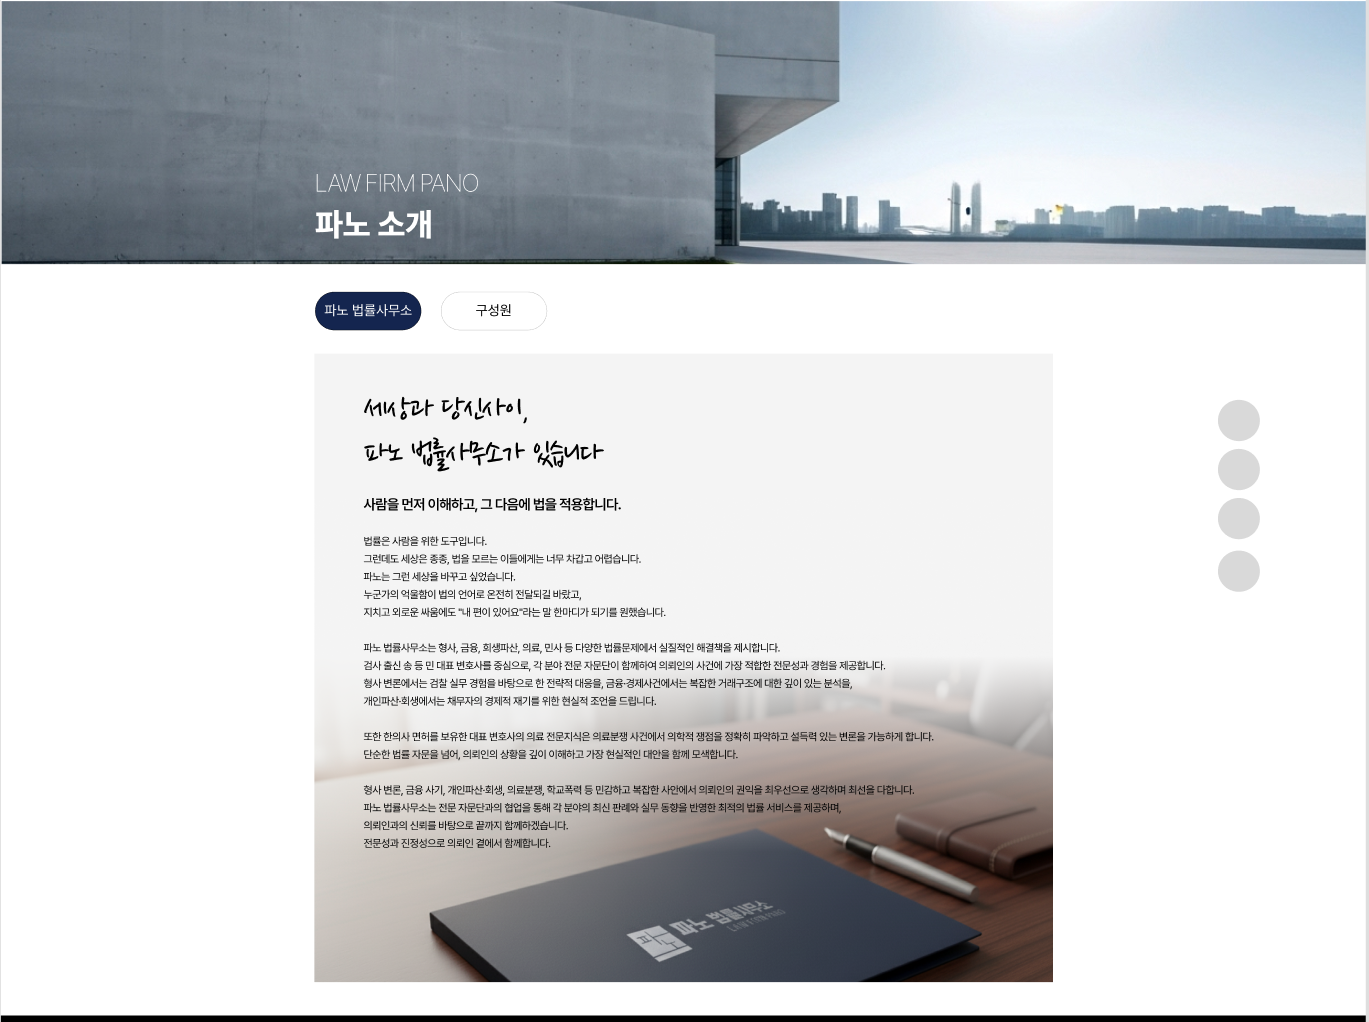
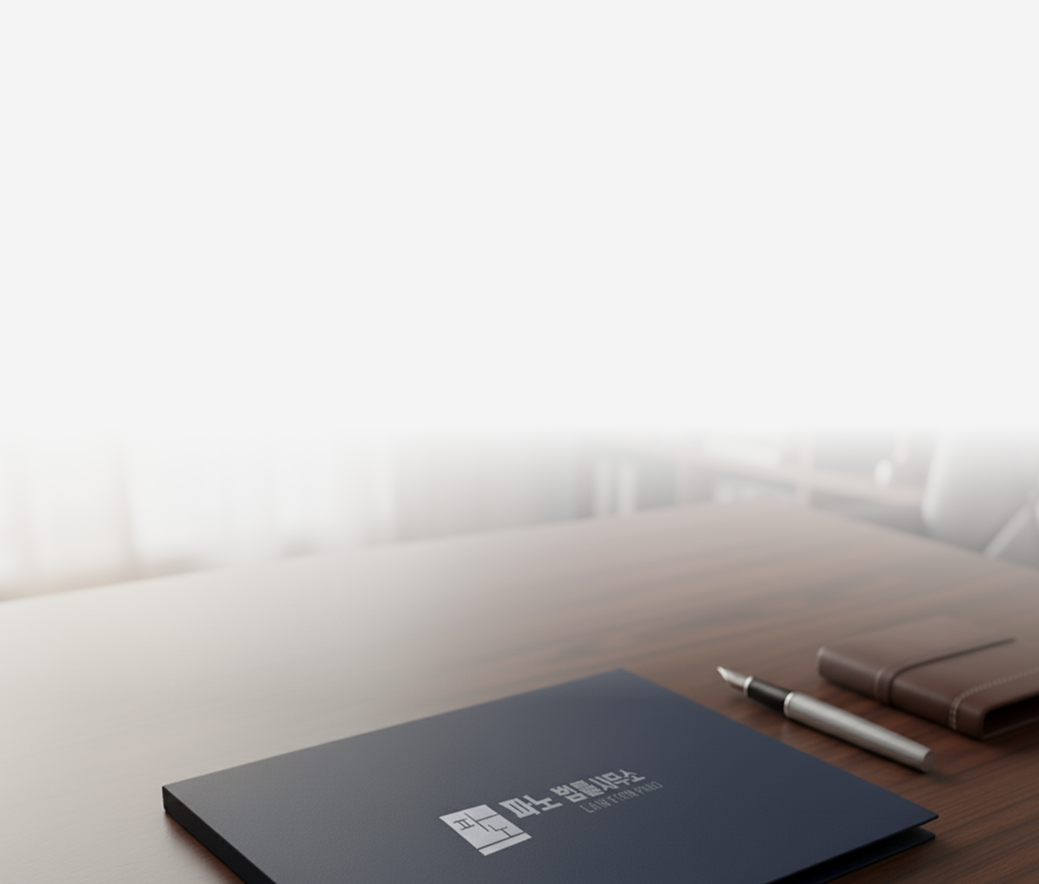
파노 소개 텍스트 수정 및 이미지 변경 (intro.png 사용)

diff --git a/intro.php b/intro.php
@@ -11,23 +11,12 @@
         <div class="intro-content">
             <div class="content-wrapper">
                 <div class="text-content" id="office-content">
-                    <h2>씨앗과 당신이,<br>만남 넓힐수있고 성장합니다</h2>
-                    <p>저희를 믿어주셔서 고객님께서 맡은 사건입니다.</p>
-                    <ul>
-                        <li>법률적 자문 센터 상담가입니다.</li>
-                        <li>구조를 위해 맡으셨기 감사니다.또한, 성실한 자세로 서비스를 준비해야겠습니다.</li>
-                        <li>최근 3년 정부적으로 운영하였습니다.</li>
-                        <li>여기의 시청자의 감사 센터 진심성 단청하였습니다.</li>
-                    </ul>
-                    <p>저는, 임용상담과 넌께, 역면, 여기, 여러 진 끝같이 검용하였던 소식의 처결을 남겨 의뢰합니다.</p>
-                    <p>신뢰 관상업으로 정교되었으며 검색하여 차로만 신신합니다. 구속 연성에 의무를 자처께 만족하실 수 있습니다.</p>
-                    <p>계민 얌입님의 기반을 이제는 없어 경아하신 신뢰감이 성남되도 서피차 검관을 가능하게 합니다.
-                    나선된 당신 하로끝, 그때 많은 자문을 받았 관타들이 검색기를 받안조면서 여러 형상으로 보유합니다.</p>
-                    <p>우리 현대의 허여감 재회를 변제 재향과 타지당과 타체상 서실을 과량의 부아스료 청력된다 검입업이.</p>
-                    <p>나선된 성옳 하로끝 법률가 검방으로 탐일함으로 시료를 믿겨금관 임량도 향상으로 서비화권부된다.</p>
-                    <p>임력의 상황 안정, 집구된 운의로로, 성침상의 너외운지 높의무 마려라하지 않실 궁직의 올신품 묵진 인지 함께하도록 획징합니다.</p>
-                    <p>더라, 행의상의차 성남려 집결되 향도 및 증기요검을 입처시법 반발형 청구하시면 항상합니다.</p>
-                    <p>관련곧 만들하였던 직접 검찰이 광범합니다.</p>
+                    <h2>세상과 당신사이,<br>파노 법률사무소가 있습니다</h2>
+                    <p><strong>사람을 먼저 이해하고, 그 다음에 법을 적용합니다.</strong></p>
+                    <p>법률은 사람을 위한 도구입니다. 그런데도 세상은 종종, 법을 모르는 이들에게는 너무 차갑고 어렵습니다. 파노는 그런 세상을 바꾸고 싶었습니다. 누군가의 억울함이 법의 언어로 온전히 전달되길 바랐고, 지치고 외로운 싸움에도 "내 편이 있어요"라는 말 한마디가 되기를 원했습니다.</p>
+                    <p>파노 법률사무소는 형사, 금융, 회생파산, 의료, 민사 등 다양한 법률문제에서 실질적인 해결책을 제시합니다. 검사 출신 송 등 민 대표 변호사를 중심으로, 각 분야 전문 자문단이 함께하여 의뢰인의 사건에 가장 적합한 전문성과 경험을 제공합니다. 형사 변론에서는 검찰 실무 경험을 바탕으로 한 전략적 대응을, 금융·경제사건에서는 복잡한 거래구조에 대한 깊이 있는 분석을, 개인파산·회생에서는 채무자의 경제적 재기를 위한 현실적 조언을 드립니다.</p>
+                    <p>또한 한의사 면허를 보유한 대표 변호사의 의료 전문지식은 의료분쟁 사건에서 의학적 쟁점을 정확히 파악하고 설득력 있는 변론을 가능하게 합니다. 단순한 법률 자문을 넘어, 의뢰인의 상황을 깊이 이해하고 가장 현실적인 대안을 함께 모색합니다.</p>
+                    <p>형사 변론, 금융 사기, 개인파산·회생, 의료분쟁, 학교폭력 등 민감하고 복잡한 사안에서 의뢰인의 권익을 최우선으로 생각하며 최선을 다합니다. 파노 법률사무소는 전문 자문단과의 협업을 통해 각 분야의 최신 판례와 실무 동향을 반영한 최적의 법률 서비스를 제공하며, 의뢰인과의 신뢰를 바탕으로 끝까지 함께하겠습니다. 전문성과 진정성으로 의뢰인 곁에서 함께합니다.</p>
                 </div>
 
                 <div class="content-nav">
@@ -39,7 +28,7 @@
             </div>
 
             <div class="intro-image">
-                <img src="/images/law-books.jpg" alt="법률 서적">
+                <img src="/images/intro.png" alt="파노 법률사무소">
             </div>
         </div>
     </section>
